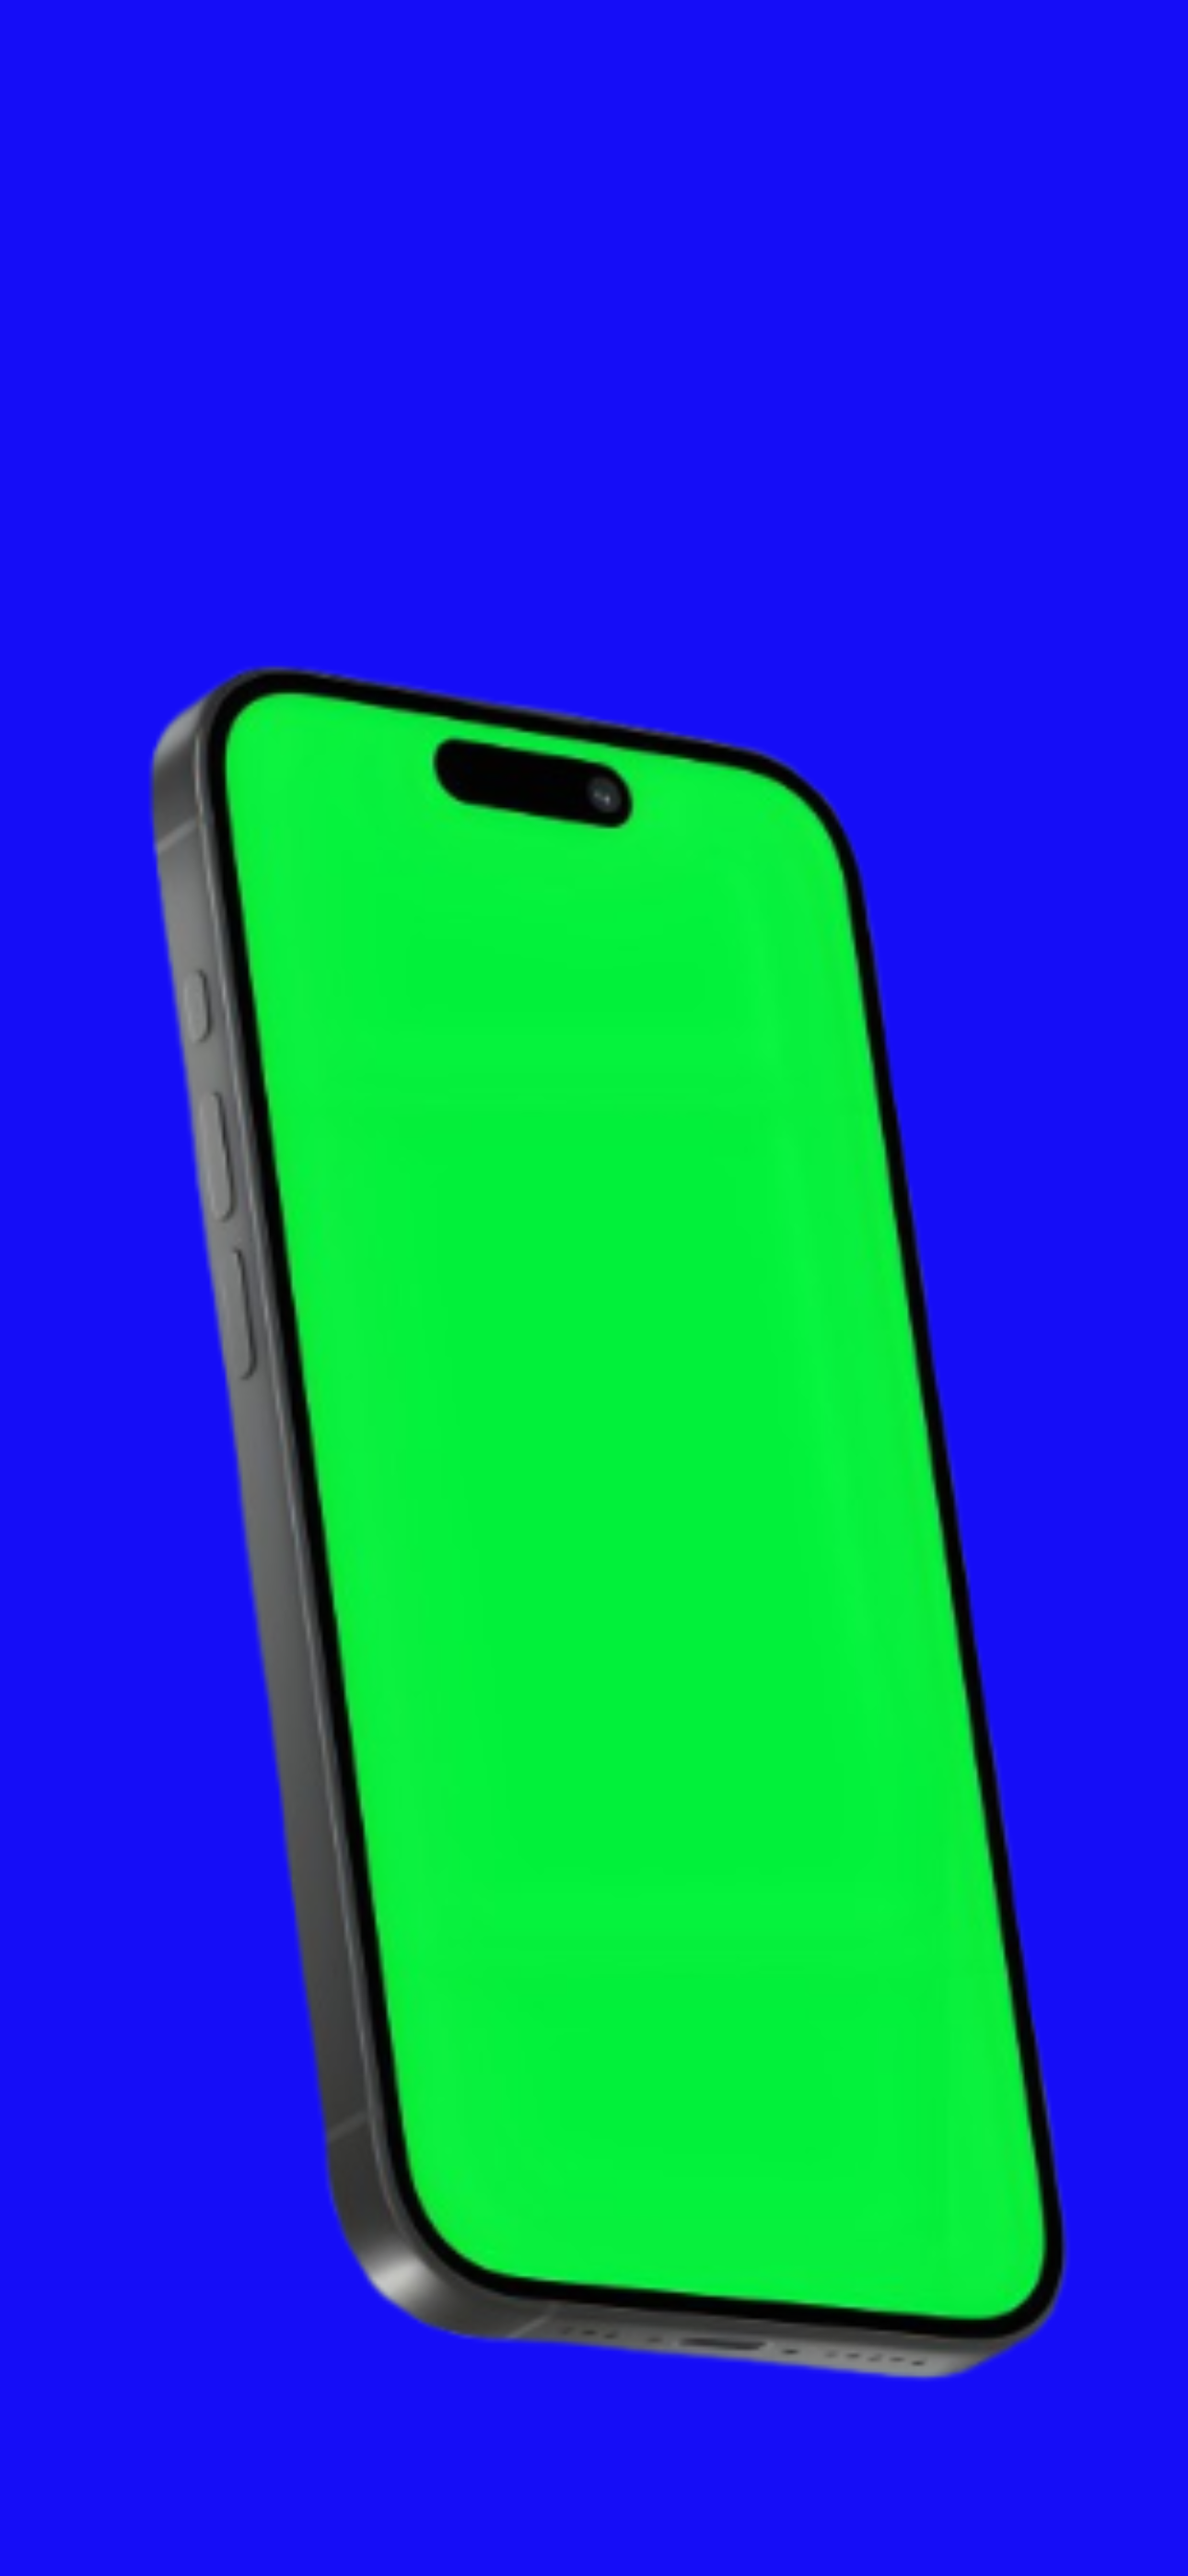
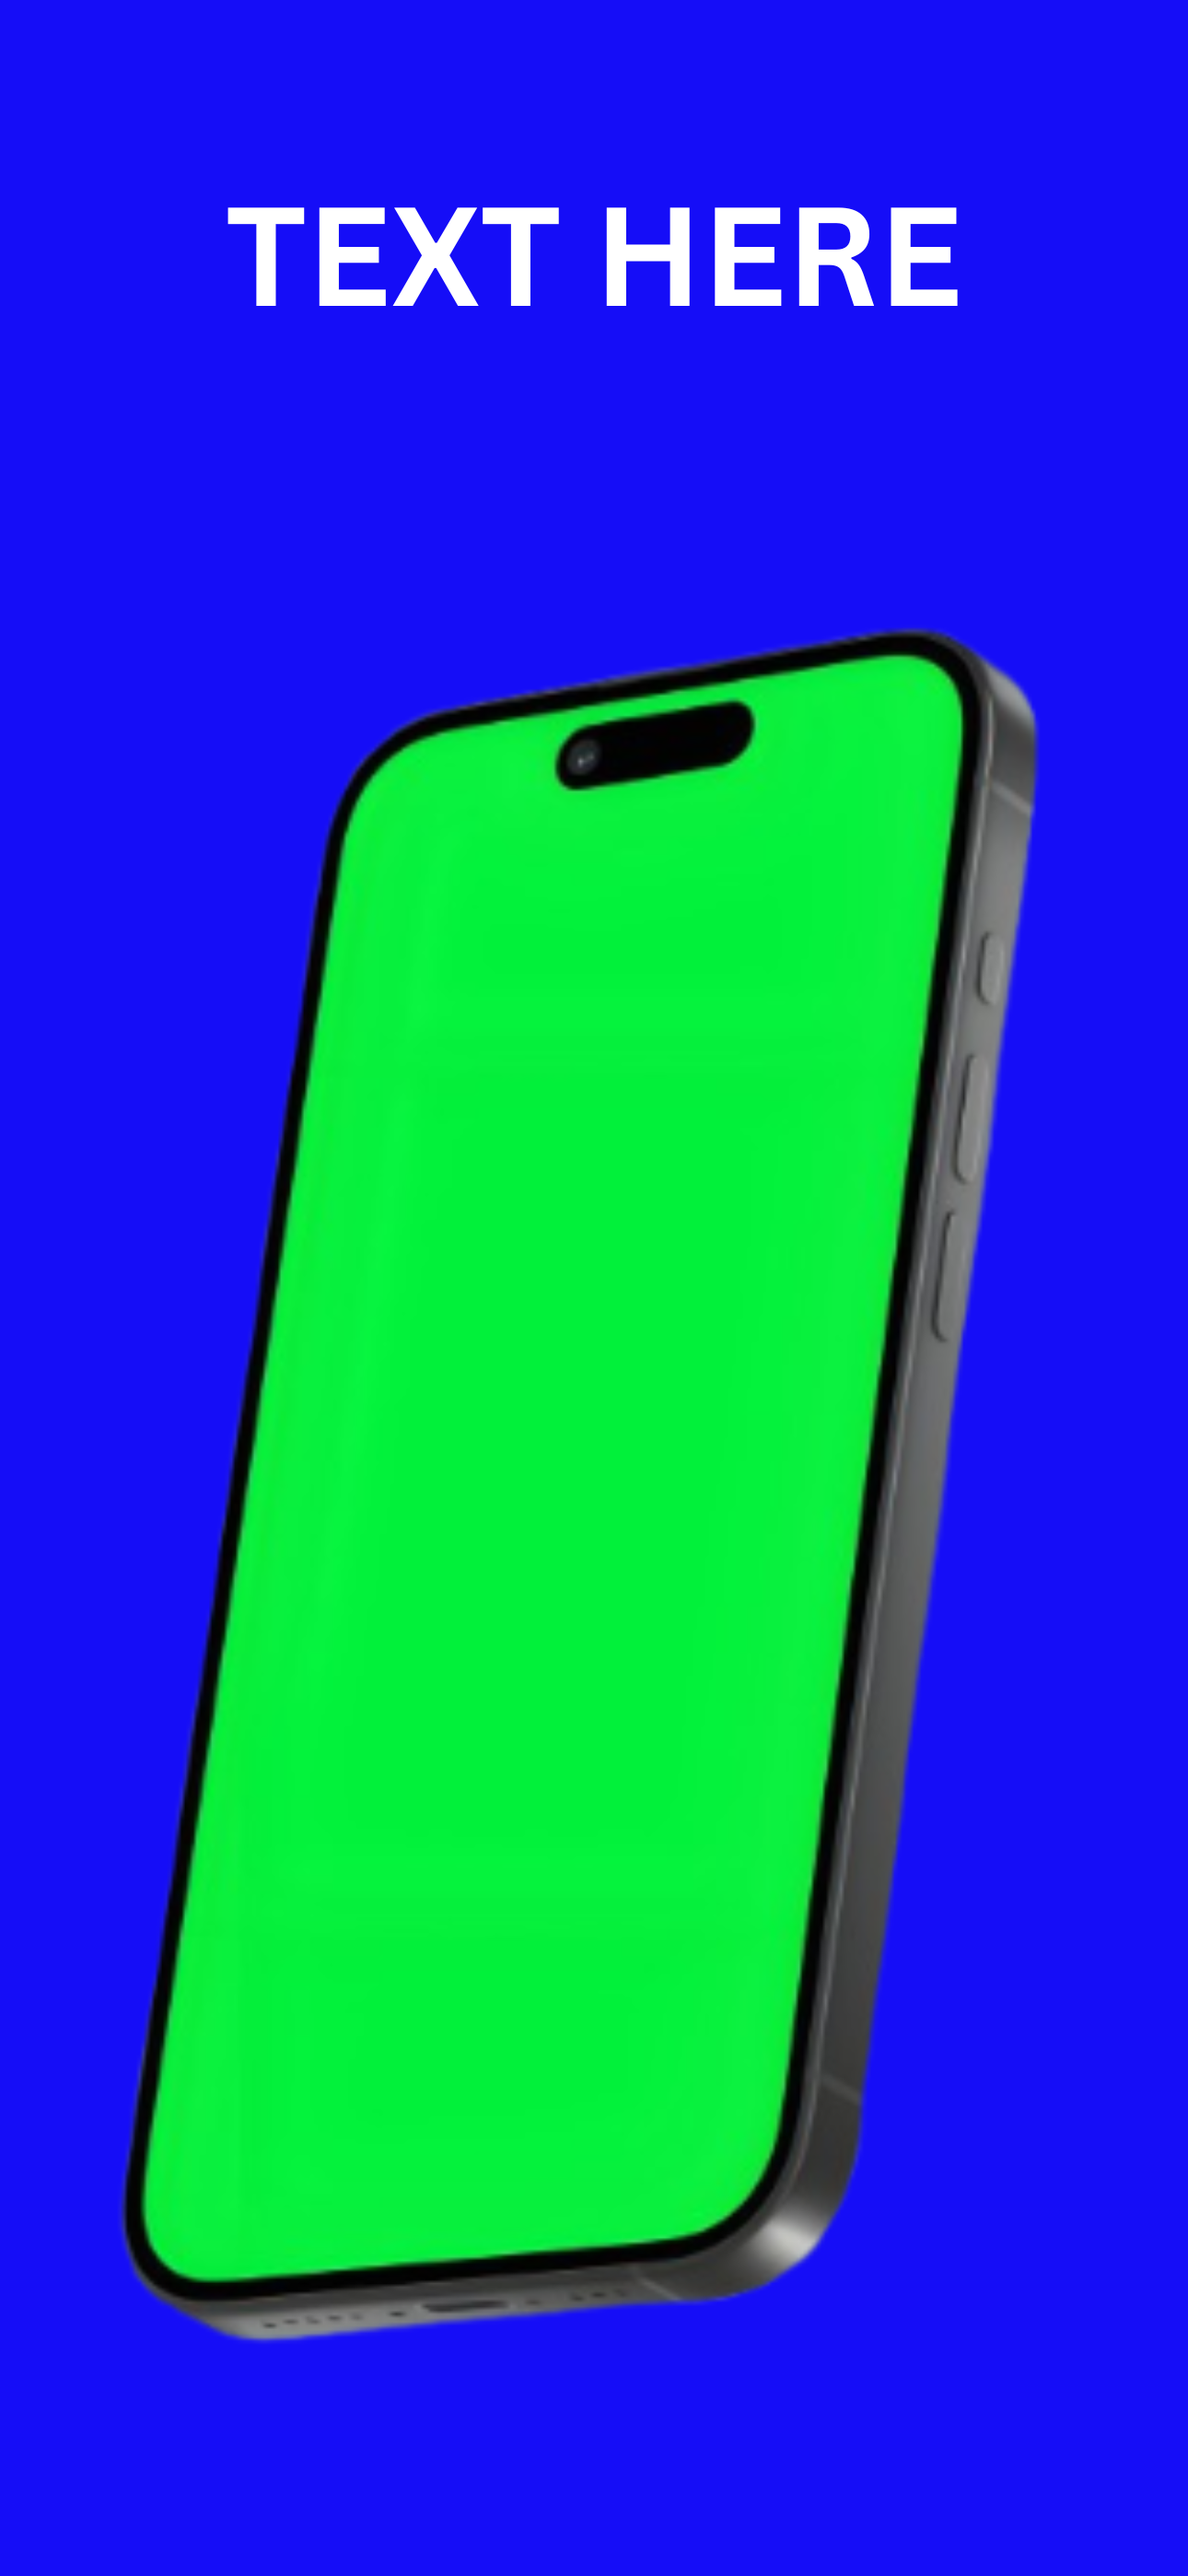
fix: remove duplicate buttons, fix OpenCV bindings, improve typography sizing

Changed region(s): [[0.093, 0.2178, 0.8992, 0.9335], [0.4961, 0.0622, 0.8062, 0.1245], [0.186, 0.0622, 0.4651, 0.1245]]

diff --git a/services/typography.ts b/services/typography.ts
@@ -1,13 +1,20 @@
 import sharp from 'sharp';
 
+// Map font IDs to actual CSS font-family names
+const FONT_MAP: Record<string, string> = {
+    'standard': 'Inter, Helvetica, Arial, sans-serif',
+    'handwritten': 'Georgia, Palatino, serif',
+    'modern': 'SF Mono, Menlo, Monaco, monospace',
+};
+
 /**
  * Overlays text onto an image using Sharp and SVG.
  * Replaces the "TEXT HERE" placeholder by rendering a text block over the top area.
  */
 export async function addTextOverlay(
-    imageBase64: string, 
-    headline: string, 
-    font: string = 'Sans-serif', 
+    imageBase64: string,
+    headline: string,
+    font: string = 'standard',
     color: string = 'white'
 ): Promise<string> {
     try {
@@ -19,21 +26,24 @@ export async function addTextOverlay(
         // Configuration
         const textWidth = Math.floor(width * 0.85); // Slightly wider
         const textX = Math.floor((width - textWidth) / 2);
-        
+
         // Dynamic Font Size Logic
-        // Base size is 6% of width. Shrink if headline is long.
-        let fontSize = Math.floor(width * 0.06); 
-        if (headline.length > 30) fontSize = Math.floor(width * 0.05);
-        if (headline.length > 50) fontSize = Math.floor(width * 0.04);
+        // Base size is 10% of width (large like template). Shrink progressively for longer text.
+        let fontSize = Math.floor(width * 0.10);
+        if (headline.length > 15) fontSize = Math.floor(width * 0.08);
+        if (headline.length > 25) fontSize = Math.floor(width * 0.065);
+        if (headline.length > 40) fontSize = Math.floor(width * 0.055);
+        if (headline.length > 60) fontSize = Math.floor(width * 0.045);
 
         const safeHeadline = headline.replace(/&/g, '&amp;').replace(/</g, '&lt;').replace(/>/g, '&gt;');
-        const safeFont = font.replace(/"/g, "'");
+        // Map font ID to actual font-family, fallback to sans-serif
+        const fontFamily = FONT_MAP[font] || FONT_MAP['standard'];
 
         // Split text into lines
         // We calculate max chars per line based on font size approx.
         // Approx char width is 0.6 * fontSize.
         const maxCharsPerLine = Math.floor(textWidth / (fontSize * 0.6));
-        
+
         const words = safeHeadline.split(' ');
         const lines: string[] = [];
         let currentLine = '';
@@ -52,7 +62,7 @@ export async function addTextOverlay(
         // Start text roughly at 8% height, but can adjust based on line count to not go too low
         const startY = Math.floor(height * 0.08) + fontSize;
 
-        const textElements = lines.map((line, i) => 
+        const textElements = lines.map((line, i) =>
             `<text x="${width / 2}" y="${startY + (i * lineHeight)}" class="title">${line}</text>`
         ).join('\n');
 
@@ -77,7 +87,7 @@ export async function addTextOverlay(
                 .title { 
                     fill: ${color}; 
                     font-size: ${fontSize}px; 
-                    font-family: ${safeFont}, 'Segoe UI Emoji', 'Apple Color Emoji', 'Noto Color Emoji', sans-serif; 
+                    font-family: ${fontFamily}, 'Segoe UI Emoji', 'Apple Color Emoji', 'Noto Color Emoji', sans-serif; 
                     font-weight: 800;
                     text-anchor: middle;
                     filter: url(#shadow);

diff --git a/components/views/GenerateView.tsx b/components/views/GenerateView.tsx
@@ -164,20 +164,11 @@ export const GenerateView: React.FC<GenerateViewProps> = ({
             {/* Full Screen Image Viewer Modal */}
             {viewingImage && (
                 <div
-                    className="fixed inset-0 z-[100] flex items-center justify-center p-4 md:p-12 animate-in fade-in duration-300"
+                    className="fixed inset-0 z-[100] flex items-center justify-center p-4 md:p-12 animate-in fade-in duration-300 cursor-pointer"
                     onClick={handleCloseViewer}
                 >
                     <div className="absolute inset-0 bg-black/80 backdrop-blur-2xl" />
-                    <button
-                        onClick={handleCloseViewer}
-                        className="absolute top-8 right-8 z-[110] p-3 bg-white/10 hover:bg-white/20 border border-white/10 rounded-full text-white transition-all hover:scale-110 active:scale-95"
-                    >
-                        <X size={24} />
-                    </button>
-                    <div
-                        className="relative z-[110] max-w-full max-h-full flex items-center justify-center animate-in zoom-in duration-400"
-                        onClick={(e) => e.stopPropagation()}
-                    >
+                    <div className="relative z-[110] max-w-full max-h-full flex items-center justify-center animate-in zoom-in duration-400">
                         <Image
                             src={viewingImage}
                             alt="Full screen preview"
